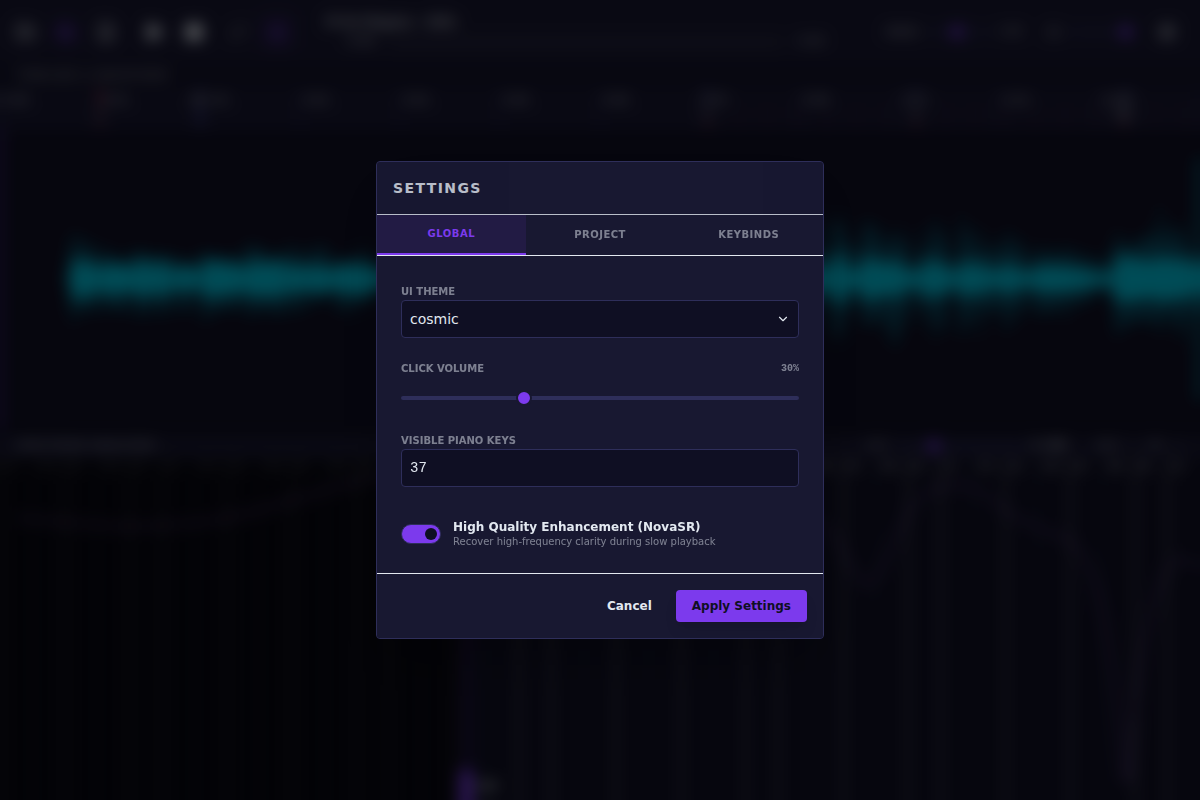
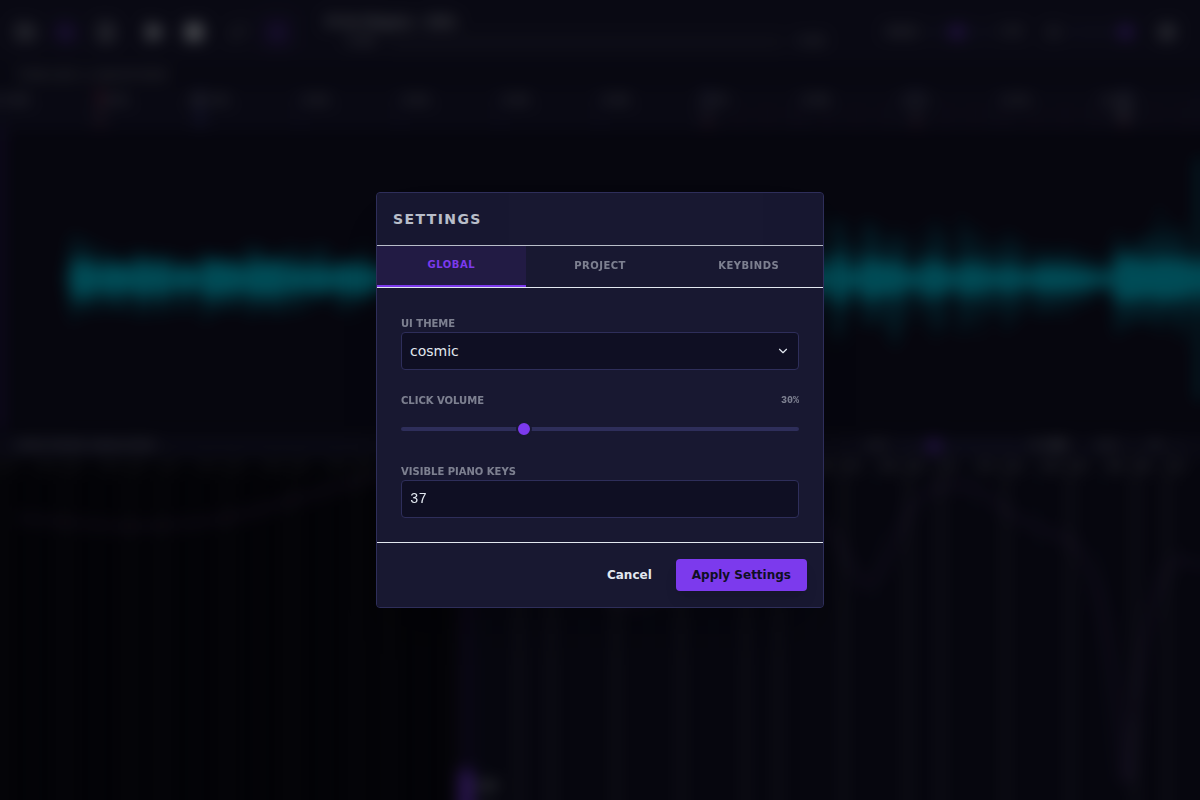
Removed NovaSR since it made the app extremely large for little to no benefit

diff --git a/frontend/src/components/SettingsDialog.tsx b/frontend/src/components/SettingsDialog.tsx
@@ -7,13 +7,12 @@ interface SettingsDialogProps {
 }
 
 export const SettingsDialog: React.FC<SettingsDialogProps> = ({ onClose }) => {
-  const { themes, currentTheme, click_volume, spectrum_keys, high_quality_enhancement, default_output_folder, musicxml_author, updateConfig, time_signature, updateTimeSignature } = useStore();
+  const { themes, currentTheme, click_volume, spectrum_keys, default_output_folder, musicxml_author, updateConfig, time_signature, updateTimeSignature } = useStore();
   const [activeTab, setActiveTab] = useState<'global' | 'project' | 'keybinds'>('global');
 
   const [theme, setTheme] = useState(currentTheme);
   const [clickVol, setClickVol] = useState(click_volume * 100);
   const [keys, setKeys] = useState(spectrum_keys);
-  const [highQuality, setHighQuality] = useState(high_quality_enhancement);
   const [outputFolder, setOutputFolder] = useState(default_output_folder);
   const [author, setAuthor] = useState(musicxml_author);
   const [timeSig, setTimeSig] = useState(time_signature);
@@ -25,7 +24,6 @@ export const SettingsDialog: React.FC<SettingsDialogProps> = ({ onClose }) => {
         theme,
         click_volume: clickVol / 100,
         spectrum_keys: keys,
-        high_quality_enhancement: highQuality,
         default_output_folder: outputFolder,
         musicxml_author: author
     });
@@ -99,19 +97,6 @@ export const SettingsDialog: React.FC<SettingsDialogProps> = ({ onClose }) => {
                         <input type="number" min="12" max="120" value={keys} onChange={(e) => setKeys(parseInt(e.target.value))}
                                className="w-full bg-background border-[var(--ui-border)] border-grid rounded-[var(--ui-radius)] p-2 outline-none focus:border-accent text-sm font-mono text-text accent-accent"
                                style={{ borderWidth: 'var(--ui-border)' }} />
-                    </div>
-                    <div className="pt-2">
-                        <label className="flex items-center gap-3 cursor-pointer group">
-                            <div className="relative">
-                                <input type="checkbox" checked={highQuality} onChange={(e) => setHighQuality(e.target.checked)} className="sr-only peer" />
-                                <div className="w-10 h-5 bg-background border border-grid rounded-full peer peer-checked:bg-accent transition-colors"></div>
-                                <div className="absolute left-1 top-1 bg-text w-3 h-3 rounded-full transition-transform peer-checked:translate-x-5 peer-checked:bg-background"></div>
-                            </div>
-                            <div className="flex flex-col">
-                                <span className="text-xs font-bold">High Quality Enhancement (NovaSR)</span>
-                                <span className="text-[10px] opacity-50">Recover high-frequency clarity during slow playback</span>
-                            </div>
-                        </label>
                     </div>
                 </>
             ) : activeTab === 'project' ? (

diff --git a/frontend/src/store/slices/configSlice.ts b/frontend/src/store/slices/configSlice.ts
@@ -10,7 +10,6 @@ export interface ConfigSlice {
   metronome_enabled: boolean;
   click_volume: number;
   spectrum_keys: number;
-  high_quality_enhancement: boolean;
   default_output_folder: string;
   musicxml_author: string;
   showSettings: boolean;
@@ -23,7 +22,6 @@ export interface ConfigSlice {
     theme?: string,
     click_volume?: number,
     spectrum_keys?: number,
-    high_quality_enhancement?: boolean,
     default_output_folder?: string,
     musicxml_author?: string
   }) => Promise<void>;
@@ -36,7 +34,6 @@ export const createConfigSlice: StateCreator<AppState, [], [], ConfigSlice> = (s
   metronome_enabled: true,
   click_volume: 0.3,
   spectrum_keys: 37,
-  high_quality_enhancement: false,
   default_output_folder: '',
   musicxml_author: '',
   showSettings: false,
@@ -60,7 +57,6 @@ export const createConfigSlice: StateCreator<AppState, [], [], ConfigSlice> = (s
         currentTheme: res.data.theme,
         click_volume: res.data.click_volume,
         spectrum_keys: newKeys,
-        high_quality_enhancement: res.data.high_quality_enhancement,
         default_output_folder: res.data.default_output_folder,
         musicxml_author: res.data.musicxml_author
       };
@@ -113,7 +109,6 @@ export const createConfigSlice: StateCreator<AppState, [], [], ConfigSlice> = (s
         await axios.post(`${API_BASE}/config`, cfg);
         if (cfg.theme) set({ currentTheme: cfg.theme });
         if (cfg.click_volume !== undefined) set({ click_volume: cfg.click_volume });
-        if (cfg.high_quality_enhancement !== undefined) set({ high_quality_enhancement: cfg.high_quality_enhancement });
         if (cfg.default_output_folder !== undefined) set({ default_output_folder: cfg.default_output_folder });
         if (cfg.musicxml_author !== undefined) set({ musicxml_author: cfg.musicxml_author });
 

diff --git a/frontend/src/store/types.ts b/frontend/src/store/types.ts
@@ -64,7 +64,6 @@ export interface AppState {
   themes: Record<string, Record<string, string>>;
   currentTheme: string;
   spectrum_keys: number;
-  high_quality_enhancement: boolean;
   default_output_folder: string;
   musicxml_author: string;
   fft_window: number;
@@ -89,7 +88,6 @@ export interface AppState {
     theme?: string,
     click_volume?: number,
     spectrum_keys?: number,
-    high_quality_enhancement?: boolean,
     default_output_folder?: string,
     musicxml_author?: string
   }) => Promise<void>;

diff --git a/audio/engine/processing.py b/audio/engine/processing.py
@@ -12,8 +12,6 @@ class AudioProcessor:
         self._stretcher.preset(1, float(sr))
         self._tsm_buffer = RingBuffer(sr * 10)
         self._last_tsm_overlap: np.ndarray | None = None
-        self._novasr_enabled: bool = False
-        self._novasr: Any = None
 
     def reset(self, sr: int | None = None, speed: float = 1.0):
         if sr is not None:
@@ -26,28 +24,14 @@ class AudioProcessor:
             self._stretcher.reset()
             self._tsm_buffer.clear()
         self._last_tsm_overlap = None
-        if self._novasr:
-            self._novasr.reset()
 
     def set_speed(self, speed: float):
         self._stretcher.setTimeFactor(speed)
         self._tsm_buffer.clear()
         self._last_tsm_overlap = None
 
-    def set_novasr_enabled(self, enabled: bool):
-        self._novasr_enabled = enabled
-        if enabled and self._novasr is None:
-            try:
-                from audio.novasr import NovaSR
-                self._novasr = NovaSR()
-            except Exception:
-                logger.exception("Failed to load NovaSR")
-                self._novasr_enabled = False
-
     def process_stretch(self, chunk: np.ndarray) -> np.ndarray:
         stretched = self._stretcher.process(chunk.reshape(1, -1)).flatten()
-        if self._novasr_enabled and self._novasr is not None:
-            stretched = self._novasr.enhance(stretched, self._sr)
         return stretched
 
     def apply_overlap_add(self, stretched: np.ndarray):

diff --git a/backend/routers/config.py b/backend/routers/config.py
@@ -9,7 +9,6 @@ class AppConfig(BaseModel):
     theme: Optional[str] = None
     click_volume: Optional[float] = None
     spectrum_keys: Optional[int] = None
-    high_quality_enhancement: Optional[bool] = None
     default_output_folder: Optional[str] = None
     musicxml_author: Optional[str] = None
 
@@ -21,7 +20,6 @@ async def get_config():
         "theme": cfg.get("ui.theme", "dark"),
         "click_volume": cfg.get("ui.click_volume", 0.3),
         "spectrum_keys": cfg.get("ui.spectrum_keys", 37),
-        "high_quality_enhancement": cfg.get("ui.high_quality_enhancement", False),
         "default_output_folder": cfg.get("ui.default_output_folder", ""),
         "musicxml_author": cfg.get("ui.musicxml_author", "")
     }
@@ -38,10 +36,6 @@ async def update_config(new_cfg: AppConfig):
             state.project.backend.set_click_volume(new_cfg.click_volume)
     if new_cfg.spectrum_keys is not None:
         cfg.set("ui.spectrum_keys", new_cfg.spectrum_keys)
-    if new_cfg.high_quality_enhancement is not None:
-        cfg.set("ui.high_quality_enhancement", new_cfg.high_quality_enhancement)
-        if state.project:
-            state.project.backend.set_novasr_enabled(new_cfg.high_quality_enhancement)
     if new_cfg.default_output_folder is not None:
         cfg.set("ui.default_output_folder", new_cfg.default_output_folder)
     if new_cfg.musicxml_author is not None:

diff --git a/audio/engine/metronome.py b/audio/engine/metronome.py
@@ -55,12 +55,8 @@ class MetronomeEngine:
                 0.1 * np.sin(2 * np.pi * freq * 4 * t)
             ).astype(np.float32)
 
-            # Ultra-short noise burst for the initial impact
-            rng = np.random.default_rng(int(freq))
-            noise = (rng.random(click_dur).astype(np.float32) * 2 - 1) * 0.2
-            noise *= np.exp(-t * 1000)
-
-            click = (wave + noise) * envelope
+            # Simple percussive click via envelope
+            click = wave * envelope
 
             # Normalize to 1.0 peak
             peak = np.max(np.abs(click))

diff --git a/session/project.py b/session/project.py
@@ -37,7 +37,6 @@ class Project:
         from utils.config import Config
         cfg = Config()
         self.backend.set_click_volume(cfg.get("ui.click_volume", 0.3))
-        self.backend.set_novasr_enabled(cfg.get("ui.high_quality_enhancement", False))
         self.backend.set_loop_provider(self.get_loop_range)
 
         self.wave_cache: WaveformCache | None = None

diff --git a/audio/audio_backend.py b/audio/audio_backend.py
@@ -102,9 +102,6 @@ class AudioBackend:
     def set_metronome_enabled(self, enabled: bool) -> None:
         self._metronome.set_enabled(enabled)
 
-    def set_novasr_enabled(self, enabled: bool) -> None:
-        self._processor.set_novasr_enabled(enabled)
-
     def set_click_volume(self, volume: float) -> None:
         self._metronome.set_volume(volume)
 

diff --git a/Readme.md b/Readme.md
@@ -22,9 +22,6 @@ Wavoscope uses a "sidecar" file system. When you open an audio file, Wavoscope c
 - **Playback Cursor:** **Left Click** on the waveform to move the playhead.
 - **Speed Control:** Use the slider in the bottom bar to adjust speed from 0.1x to 2.0x. Wavoscope uses high-quality time-stretching that preserves pitch.
 
-### High-Quality Enhancement (NovaSR)
-When slowing down audio significantly, high-frequency detail is often lost. Enable **High Quality Enhancement** in the settings to use the integrated **NovaSR** neural network, which recovers clarity and "air" in real-time during slow playback.
-
 ---
 
 ## 🔍 Spectral Analysis & Filtering
@@ -75,7 +72,6 @@ Wavoscope uses a dual-flag system to help you map out the structure and harmony 
 Access the settings via the gear icon in the playback bar:
 - **Visible Piano Keys:** Adjust how many keys are shown in the spectrum's piano roll.
 - **Click Volume:** Control the loudness of the metronome subdivisions.
-- **High Quality Enhancement:** Toggle the NovaSR super-resolution engine.
 
 ### Themes
 Wavoscope is fully themeable. Choose a look that suits your environment:
